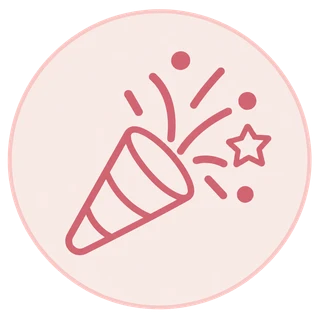
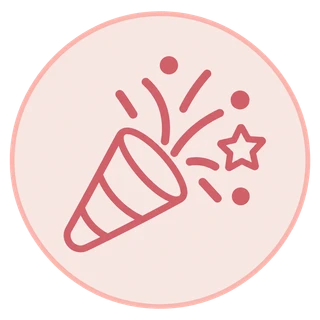
Navbar sadelestirme + Kutla ikon + album landscape fix
- Navbar masaustu: Cift Girisi cerceveli rose buton, "?" solunda; Uygulamayi Indir masaustunden kaldirildi
- Hamburger: Cift Girisi buyuk buton yerine sade metin-link (menu ferahladi)
- Kutla ikonu: tasarimci duzeltmesi (halka rengi palete uygun)
- Album reklam karti (masaustu): lg:min-h-420 -> landscape telefonda sabit-px fotolar tasmasin

Changed region(s): [[0.1875, 0.1562, 0.8438, 0.8125], [0.0, 0.0312, 1.0, 0.9688]]

diff --git a/app/page.tsx b/app/page.tsx
@@ -767,6 +767,13 @@ export default function Home() {
 
             {/* SAĞ — Concierge "?" trigger + Desktop CTA + Mobile glass hamburger */}
             <div className="flex items-center gap-3">
+              {/* Çift Girişi — çerçeveli rose buton (ayrı giriş sayfası: QR/kullanıcı-şifre; albüm/yayın kaydı/davetli listesi/masa düzeni). "?" solunda durur. */}
+              <a href="/cift-giris"
+                 className="hidden lg:inline-flex items-center gap-2 px-4 py-2 rounded-full font-semibold text-[13.5px] tracking-[0.2px] transition-all hover:scale-[1.03]"
+                 style={{ background: 'rgba(255,255,255,0.72)', backdropFilter: 'blur(14px)', WebkitBackdropFilter: 'blur(14px)', color: '#B85258', border: '1.5px solid rgba(200,104,110,0.5)', boxShadow: '0 2px 10px rgba(200,104,110,0.10), inset 0 1px 0 rgba(255,255,255,0.9)' }}>
+                <svg className="w-4 h-4" fill="none" stroke="currentColor" strokeWidth="1.9" viewBox="0 0 24 24"><path strokeLinecap="round" strokeLinejoin="round" d="M15.75 6a3.75 3.75 0 11-7.5 0 3.75 3.75 0 017.5 0zM4.5 20.25a7.5 7.5 0 0115 0" /></svg>
+                Çift Girişi
+              </a>
               {/* Concierge "?" trigger — minimal premium yardım tetikleyici (mobil + desktop) */}
               <button onClick={() => setShowConciergeSheet(true)}
                       aria-label="Yardım"
@@ -781,25 +788,6 @@ export default function Home() {
                   <path d="M8.5 9c0-2 1.6-3.5 3.5-3.5s3.5 1.5 3.5 3.5c0 1.6-1.2 2.4-2.3 3-0.7 0.4-1.2 0.9-1.2 1.8v0.7" />
                   <circle cx="12" cy="18" r="1.1" fill="#9F4F58" stroke="none" />
                 </svg>
-              </button>
-
-              {/* Çift Girişi — sade metin-link (ayrı giriş sayfası: QR/kullanıcı-şifre; albüm/yayın kaydı/davetli listesi/masa düzeni) */}
-              <a href="/cift-giris"
-                 className="hidden lg:inline-flex items-center gap-1.5 font-semibold text-[13.5px] tracking-[0.2px] transition-colors hover:opacity-70"
-                 style={{ color: '#9F4F58' }}>
-                <svg className="w-4 h-4" fill="none" stroke="currentColor" strokeWidth="1.9" viewBox="0 0 24 24"><path strokeLinecap="round" strokeLinejoin="round" d="M15.75 6a3.75 3.75 0 11-7.5 0 3.75 3.75 0 017.5 0zM4.5 20.25a7.5 7.5 0 0115 0" /></svg>
-                Çift Girişi
-              </a>
-
-              {/* Desktop CTA — premium glass solid rose */}
-              <button onClick={() => setShowAppPopup(true)}
-                      className="hidden lg:inline-flex items-center gap-2 text-white px-5 py-2.5 rounded-full font-semibold text-[13.5px] tracking-[0.2px] transition-all hover:scale-[1.03] btn-press"
-                      style={{
-                        background: 'linear-gradient(135deg, #D88488 0%, #C8686E 50%, #B85258 100%)',
-                        boxShadow: '0 4px 14px rgba(200,104,110,0.25), 0 1px 4px rgba(160,80,90,0.15), inset 0 1px 0 rgba(255,255,255,0.30)',
-                      }}>
-                <svg className="w-3.5 h-3.5" fill="none" stroke="currentColor" viewBox="0 0 24 24"><path strokeLinecap="round" strokeLinejoin="round" strokeWidth={2} d="M12 4v16m8-8H4" /></svg>
-                Uygulamayı İndir
               </button>
 
               {/* Mobile glass hamburger — encapsulated, soft shadow */}
@@ -842,9 +830,9 @@ export default function Home() {
                   </button>
                 ))}
                 <button onClick={() => setShowAppPopup(true)} className="text-white py-3.5 rounded-2xl font-semibold mt-3 btn-press" style={{ background: 'linear-gradient(135deg, #D88488, #C8686E, #B85258)', boxShadow: '0 4px 14px rgba(200,104,110,0.22)' }}>Uygulamayı İndir</button>
-                {/* Çift Girişi — hamburger'da en altta, indir'den farklı ikincil buton */}
-                <a href="/cift-giris" onClick={() => setMobileMenuOpen(false)} className="flex items-center justify-center gap-2 py-3 rounded-2xl font-semibold mt-2" style={{ background: '#FFFFFF', color: '#B85258', border: '1.5px solid rgba(200,104,110,0.40)' }}>
-                  <svg className="w-4 h-4" fill="none" stroke="currentColor" strokeWidth="2" viewBox="0 0 24 24"><path strokeLinecap="round" strokeLinejoin="round" d="M15.75 6a3.75 3.75 0 11-7.5 0 3.75 3.75 0 017.5 0zM4.5 20.25a7.5 7.5 0 0115 0" /></svg>
+                {/* Çift Girişi — en altta sade metin-link (buton değil; menü ferah kalsın) */}
+                <a href="/cift-giris" onClick={() => setMobileMenuOpen(false)} className="flex items-center justify-center gap-1.5 py-2.5 mt-1.5 text-[14px] font-semibold transition-opacity active:opacity-60" style={{ color: '#9F4F58' }}>
+                  <svg className="w-[15px] h-[15px]" fill="none" stroke="currentColor" strokeWidth="1.9" viewBox="0 0 24 24"><path strokeLinecap="round" strokeLinejoin="round" d="M15.75 6a3.75 3.75 0 11-7.5 0 3.75 3.75 0 017.5 0zM4.5 20.25a7.5 7.5 0 0115 0" /></svg>
                   Çift Girişi
                 </a>
               </div>
@@ -1254,7 +1242,8 @@ export default function Home() {
           </div>
 
           {/* Fotoğraf Albümü — MASAÜSTÜ kart (fotolar SOL, içerik SAĞ — Altın Toplama hizası) */}
-          <div className="feature-card-hover hidden lg:block relative rounded-[28px] overflow-hidden mx-auto w-full lg:aspect-[3/1]" style={{ backgroundImage: 'url(/bg-album-masaustu.webp)', backgroundSize: 'cover', backgroundPosition: 'center', boxShadow: '0 18px 50px rgba(72,47,42,0.055), 0 2px 8px rgba(72,47,42,0.025)', border: '1px solid rgba(174,112,108,0.13)' }}>
+          {/* min-h: landscape telefon/dar ekranda (1024-1200px) kart aspect ile kısalınca sabit-px fotolar taşmasin */}
+          <div className="feature-card-hover hidden lg:block relative rounded-[28px] overflow-hidden mx-auto w-full lg:aspect-[3/1] lg:min-h-[420px]" style={{ backgroundImage: 'url(/bg-album-masaustu.webp)', backgroundSize: 'cover', backgroundPosition: 'center', boxShadow: '0 18px 50px rgba(72,47,42,0.055), 0 2px 8px rgba(72,47,42,0.025)', border: '1px solid rgba(174,112,108,0.13)' }}>
             {/* Cream overlay — sol içerik tarafı krem, sağda foto tarafına fade (zigzag) */}
             <div className="absolute left-0 top-0 h-full w-[72%] pointer-events-none" style={{ background: 'linear-gradient(to right, rgba(255, 248, 240, 0.50) 0%, rgba(255, 248, 240, 0.50) 65%, rgba(255, 248, 240, 0) 100%)' }} />
 
